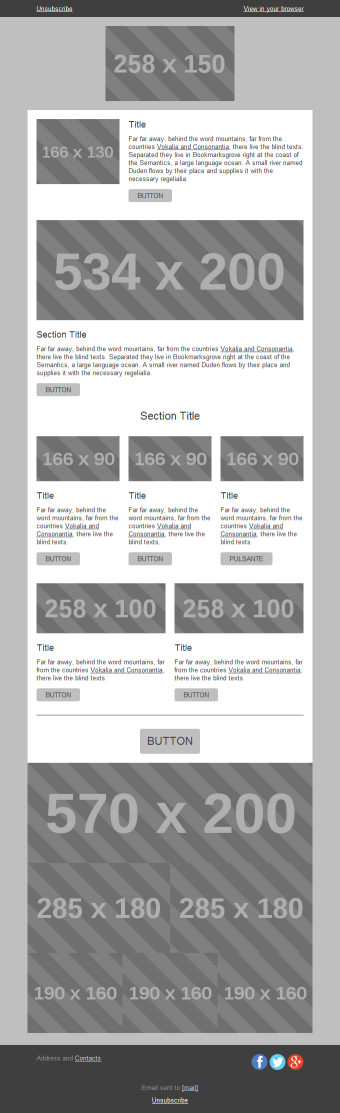
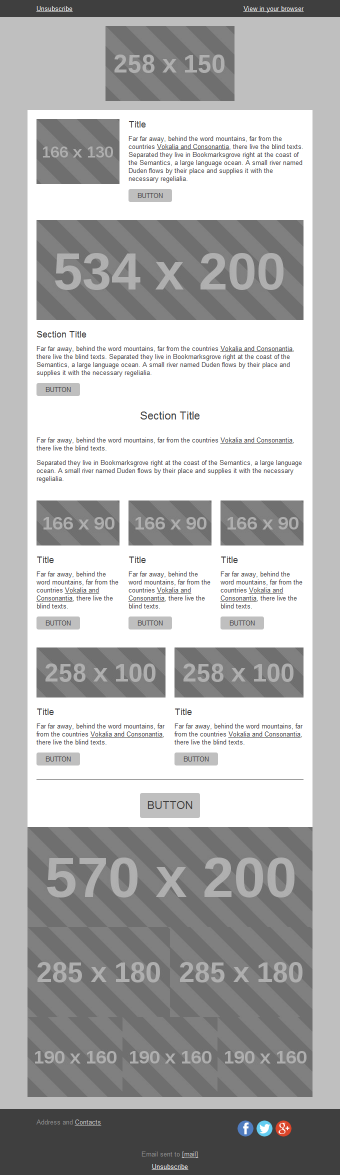
versafix-1: simple text block
Added a simple "paragraphs" block. Fixes #83

diff --git a/templates/versafix-1/template-versafix-1.html b/templates/versafix-1/template-versafix-1.html
@@ -143,6 +143,8 @@
       sideArticleBlock imageWidth { label: Image Size; widget: select; options: 120=Small|166=Medium|258=Big; }
       sideArticleBlock { label: Image+Text Block; properties: backgroundColor titleVisible=true buttonVisible=true imageWidth=166 imagePos=left titleTextStyle longTextStyle buttonStyle  image  longText buttonLink; variant:imagePos; theme: contentTheme }
 
+      textBlock { label: Text Block; properties: backgroundColor longTextStyle longText; theme: contentTheme}
+
       singleArticleBlock { label: Image/Text Block; properties: backgroundColor titleVisible=true buttonVisible=true imageVisible=true titleTextStyle longTextStyle buttonStyle  image  longText buttonLink;theme: contentTheme}
 
       doubleArticleBlock { label: 2 Columns Block; properties: backgroundColor titleVisible=true buttonVisible=true imageVisible=true titleTextStyle longTextStyle buttonStyle  leftImage  leftLongText leftButtonLink rightImage  rightLongText rightButtonLink; theme: contentTheme}
@@ -182,6 +184,7 @@
       preheaderBlock:preview,
       hrBlock:preview,
       sideArticleBlock:preview,
+      textBlock:preview,
       singleArticleBlock:preview,
       doubleArticleBlock:preview,
       tripleArticleBlock:preview,
@@ -318,6 +321,18 @@
     [data-ko-block=singleArticleBlock] .long-text p { Margin: 1em 0px; }
     [data-ko-block=singleArticleBlock] .long-text p:last-child { Margin-bottom: 0px; }
     [data-ko-block=singleArticleBlock] .long-text p:first-child { Margin-top: 0px; }
+
+    [data-ko-block=textBlock] .links-color a, 
+    [data-ko-block=textBlock] .links-color a:link, 
+    [data-ko-block=textBlock] .links-color a:visited,
+    [data-ko-block=textBlock] .links-color a:hover {
+      color: #3f3f3f;
+      -ko-color: @longTextStyle.linksColor;
+      text-decoration: underline;
+    }
+    [data-ko-block=textBlock] .long-text p { Margin: 1em 0px; }
+    [data-ko-block=textBlock] .long-text p:last-child { Margin-bottom: 0px; }
+    [data-ko-block=textBlock] .long-text p:first-child { Margin-top: 0px; }
 
     [data-ko-block=sideArticleBlock] .links-color a, 
     [data-ko-block=sideArticleBlock] .links-color a:link, 
@@ -692,6 +707,33 @@
     </tr>
   </table>
   <!-- /TitleBlock -->
+
+  <!-- textBlock -->
+  <table class="vb-outer" width="100%" cellpadding="0" border="0" cellspacing="0" bgcolor="#bfbfbf"
+    style="background-color: #bfbfbf; -ko-background-color: @externalBackgroundColor; -ko-attr-bgcolor: @externalBackgroundColor" data-ko-block="textBlock">
+    <tr>
+      <td class="vb-outer" align="center" valign="top" bgcolor="#bfbfbf"
+        style="background-color: #bfbfbf; -ko-background-color: @externalBackgroundColor; -ko-attr-bgcolor: @externalBackgroundColor">
+
+<!--[if (gte mso 9)|(lte ie 8)]><table align="center" border="0" cellspacing="0" cellpadding="0" width="570"><tr><td align="center" valign="top"><![endif]-->
+        <div class="oldwebkit">
+        <table width="570" border="0" cellpadding="0" cellspacing="18" class="vb-container fullpad" bgcolor="#ffffff" 
+          style="width: 100%; max-width: 570px; background-color: #ffffff; -ko-attr-bgcolor: @backgroundColor; -ko-background-color: @backgroundColor;">
+          <tr>
+            <td align="left" style="text-align: left; font-size: 13px; font-family: Arial, Helvetica, sans-serif; color: #3f3f3f;
+              -ko-font-size: @[longTextStyle.size]px; -ko-font-family: @longTextStyle.face; -ko-color: @longTextStyle.color"
+              data-ko-editable="longText" class="long-text links-color">
+              <p>Far far away, behind the word mountains, far from the countries <a href="">Vokalia and Consonantia</a>, there live the blind texts.</p>
+              <p>Separated they live in Bookmarksgrove right at the coast of the Semantics, a large language ocean. A small river named Duden flows by their place and supplies it with the necessary regelialia.</p>
+            </td>
+          </tr>
+        </table>
+        </div>
+<!--[if (gte mso 9)|(lte ie 8)]></td></tr></table><![endif]-->
+      </td>
+    </tr>
+  </table>
+  <!-- /textBlock -->
 
   <!-- tripleArticleBlock -->
   <table class="vb-outer" width="100%" cellpadding="0" border="0" cellspacing="0" bgcolor="#bfbfbf"
